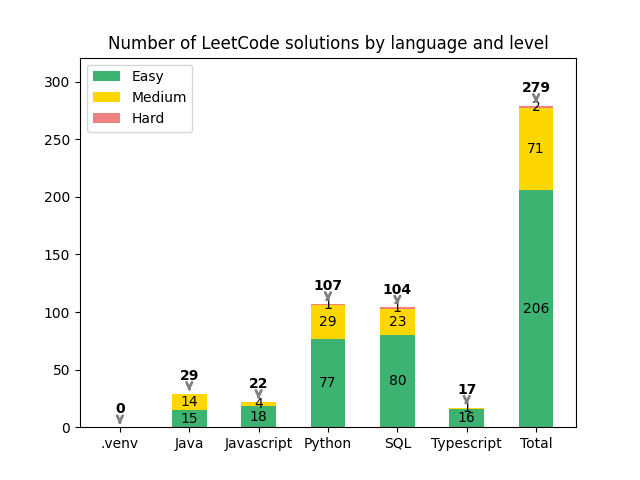
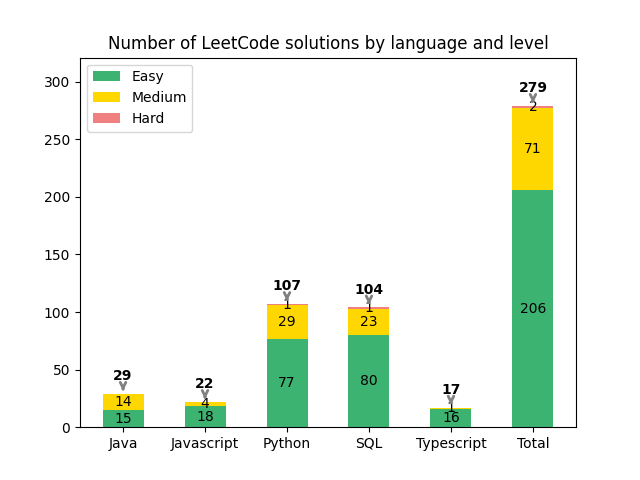
[chore] disable cache generation in workflow

Changed region(s): [[0.1562, 0.1562, 0.875, 0.9375], [0.8125, 0.9062, 0.875, 0.9375]]

diff --git a/scripts/lc_constants.py b/scripts/lc_constants.py
@@ -4,7 +4,7 @@ REETKODE_CHART_URL = ".github/lc_chart.png?"
 REETKODE_FLOW_URL = ".github/lc_flow.png?"
 LEETCODE_PROBLEM_URL = "https://lcid.cc/{id}"
 
-IGNORED_DIRS = (".git", ".github", "icons", "scripts")
+IGNORED_DIRS = (".venv", ".git", ".github", "icons", "scripts")
 ACCEPTED_FILETYPES_MAP = {
     ".c": "c",
     ".cpp": "cpp",
